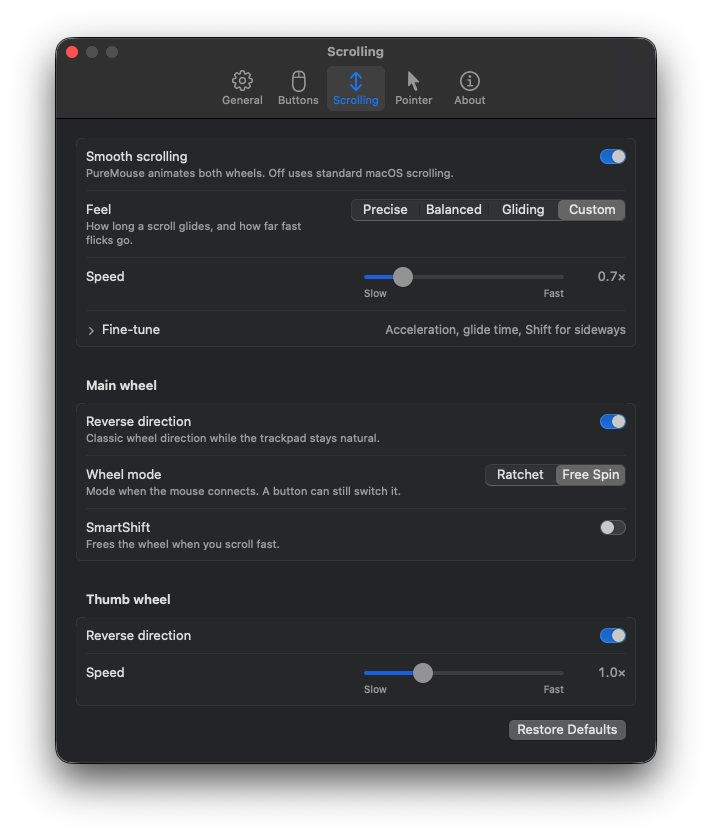
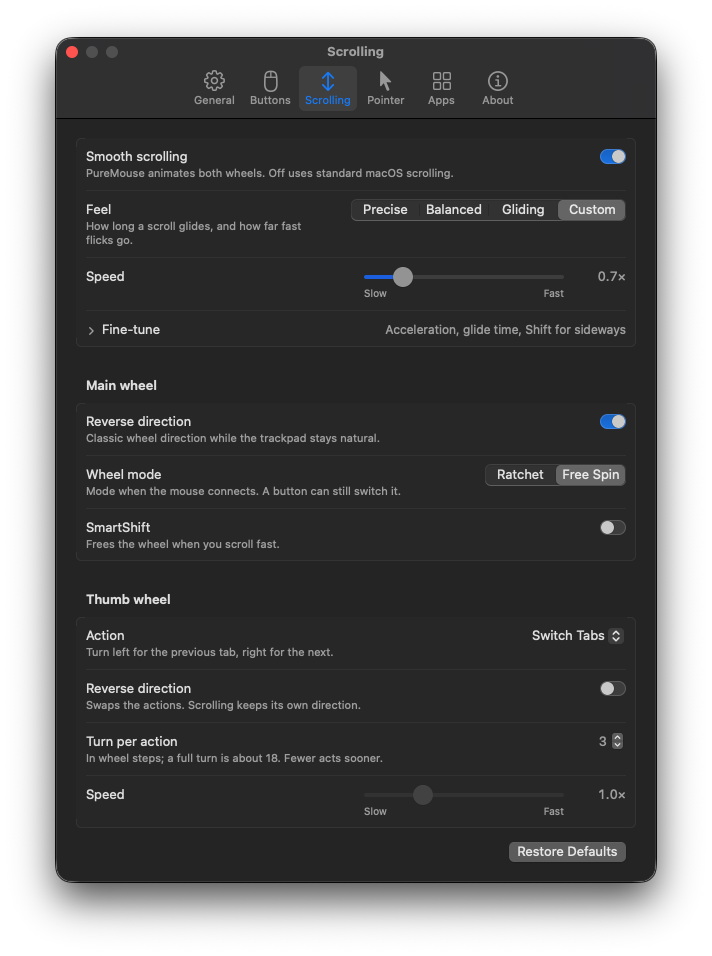
README: lead with the footprint, refresh screenshots, add 0.3.0 features and confident mouse support
Screenshots retaken for 0.3.0 (Apps pane and an app's own settings added; Scrolling shows a
thumb-wheel action with its direction). Reviewed by Sonnet, Gemini and Codex Sol.

diff --git a/README.md b/README.md
@@ -8,8 +8,8 @@
 <h1 align="center">PureMouse</h1>
 
 <p align="center">
-  Button mapping, gestures, DPI and smooth scrolling for Logitech mice on macOS.<br>
-  No account, no telemetry and no dependencies; the network is used only when you press Check for Updates.
+  A lightweight, native alternative to Logi Options+ for Logitech MX mice on macOS.<br>
+  Buttons, gestures, smooth scrolling, DPI and per-app settings, in under 20 MB of memory.
 </p>
 
 <p align="center">
@@ -27,98 +27,143 @@
   </picture>
 </p>
 
+PureMouse talks to the mouse directly over Logitech's HID++ protocol: no account, no cloud sync and
+no updater in the background. It is written in Swift with no third-party dependencies, and when
+the mouse is idle, so is PureMouse.
+
+## Lightweight by design
+
+| | PureMouse 0.3.0, as measured |
+|---|---|
+| Download | 5.6 MB zip, 8.4 MB installed; universal (Apple silicon and Intel) |
+| Memory | 4-6 MB for the background process, 14 MB for the menu bar app |
+| Idle CPU | Zero in normal use: no polling, no timers, no wake-ups* |
+| Processes | Two: the background process and an optional menu bar app |
+| Network | None, unless you press **Check for Updates** |
+| Privacy | No account, no telemetry, nothing stored on the mouse |
+
+The background process uses only system frameworks and no UI toolkit. The menu bar app builds its
+Settings window on demand and hands the memory back when you close it. Smooth scrolling runs in
+step with the display, and only while the wheel is moving.
+
+<sub>* Two exceptions, both short-lived: while a permission is still to be granted, PureMouse checks
+for it with growing gaps for up to ten minutes; and a Bluetooth mouse that does not answer when it
+connects is retried once a minute until it does.</sub>
+
 ## Features
 
-- **Buttons:** Mission Control, App Exposé, Show Desktop, Launchpad, Spaces, back and forward,
-  volume, brightness, tabs, zoom, any keyboard shortcut or a shell command.
-- **Gestures:** hold the thumb button and move the mouse for four more actions.
-- **Thumb wheel:** scroll sideways, or zoom, change the volume, switch tabs or Spaces, or run any
-  two actions.
-- **Per app:** buttons, thumb wheel and smooth scrolling can differ in each app, set in Settings ›
-  Apps with suggestions for common apps.
-- **Smooth scrolling:** pixel-precise and accelerated on both wheels, in step with the display.
-- **Hardware:** DPI with presets, wheel direction, ratchet or free-spin, and SmartShift.
-- **Universal Control:** while the pointer is on another Mac, the wheels and buttons work there
-  natively.
-- **Battery:** shown in the menu, with a notification at 20% and 5%.
-- **Reliable:** settings come back after every reconnect and wake. Quitting returns the mouse to
-  normal, and nothing is stored on it.
-- **Light:** about 4 MB of memory for the background process and 15 MB for the menu bar app
-  (idle, Settings closed), with no CPU use while the mouse is idle.
+**Buttons and gestures**
+- Map any button to Mission Control, App Exposé, Show Desktop, Launchpad, Spaces, back and
+  forward, volume, brightness, tabs, zoom, a keyboard shortcut or a shell command.
+- Hold the gesture button and move the mouse for four more actions.
+- **Select by Pressing** finds a button by pressing it.
+
+**Scrolling**
+- Smooth, accelerated scrolling on both wheels, with Precise, Balanced and Gliding presets or
+  your own feel.
+- The thumb wheel scrolls sideways, or switches tabs, changes the volume, zooms, moves between
+  Spaces or runs two actions of your choice, in whichever direction you prefer.
+- Wheel direction, ratchet or free spin, and SmartShift.
+
+**Per app**
+- Give an app its own buttons, thumb wheel and scrolling speed. Buttons follow the frontmost app;
+  scrolling and the thumb wheel follow the app under the pointer.
+- Suggestions for common apps: tab switching in browsers, volume in Zoom and Teams, zoom in Word,
+  PowerPoint and Preview.
+
+**Everything else**
+- DPI with presets you can cycle from a button or the menu.
+- Battery level in the menu, with a notification at 20% and 5%.
+- **Universal Control:** when the pointer moves to another Mac, the wheels and buttons carry on
+  working there.
+- **Check for Updates** in Settings › About, only when you ask.
+- Settings return after every reconnect and wake. Quitting hands the mouse straight back to
+  macOS, and nothing is written to the mouse, so it behaves normally on any other computer.
+
+## Settings
+
+The menu bar shows the mouse and its battery, and switches smooth scrolling, pointer speed and
+pause. **Settings…** covers everything else, and changes apply as you make them.
+
+<p align="center">
+  <picture>
+    <source media="(prefers-color-scheme: dark)" srcset="docs/images/settings-buttons-dark.png">
+    <img src="docs/images/settings-buttons-light.png" width="400" align="top" alt="Buttons settings: an action for each button and gesture">
+  </picture>
+  <picture>
+    <source media="(prefers-color-scheme: dark)" srcset="docs/images/settings-app-dark.png">
+    <img src="docs/images/settings-app-light.png" width="400" align="top" alt="Google Chrome's own settings: Command-T on the top button and the thumb wheel switching tabs">
+  </picture>
+</p>
+
+<details>
+<summary>More settings: scrolling, general, apps and pointer</summary>
+<p align="center">
+  <picture>
+    <source media="(prefers-color-scheme: dark)" srcset="docs/images/settings-scrolling-dark.png">
+    <img src="docs/images/settings-scrolling-light.png" width="400" align="top" alt="Scrolling settings: smooth scrolling feel and speed, main wheel direction and mode, thumb wheel switching tabs with its direction">
+  </picture>
+  <picture>
+    <source media="(prefers-color-scheme: dark)" srcset="docs/images/settings-general-dark.png">
+    <img src="docs/images/settings-general-light.png" width="400" align="top" alt="General settings: login, menu bar icon, low battery notification, Universal Control, permissions and files">
+  </picture>
+  <picture>
+    <source media="(prefers-color-scheme: dark)" srcset="docs/images/settings-apps-dark.png">
+    <img src="docs/images/settings-apps-light.png" width="400" align="top" alt="Apps settings: Chrome, Teams, Word, Preview and Safari, each with its own thumb wheel and buttons">
+  </picture>
+  <picture>
+    <source media="(prefers-color-scheme: dark)" srcset="docs/images/settings-pointer-dark.png">
+    <img src="docs/images/settings-pointer-light.png" width="400" align="top" alt="Pointer settings: resolution and DPI presets">
+  </picture>
+</p>
+</details>
+
+Prefer a text file? Everything is also in `~/.config/puremouse/config.json`, which applies as soon
+as you save it; see [Configuration](docs/configuration.md).
 
 ## Supported mice
 
-Only the **MX Master 3S** has been tested by this project. Support follows the features a mouse
-reports, rather than a product-ID list; other models below are **untested**.
+PureMouse is developed and tested with the **MX Master 3S**. Rather than relying on a fixed list
+of models, it turns on each feature a mouse reports over HID++, so the rest of the MX family is
+covered too:
 
-| Mouse | Support |
+| Mouse | What PureMouse uses |
 |---|---|
-| MX Master 3S | Tested: buttons, gestures, DPI, both wheels and SmartShift |
-| MX Master 3 / 3 for Business | Expected to work, including older firmware's battery reporting |
-| MX Master 4 | Expected to work; play-only haptic actions available through JSON config |
-| MX Anywhere 3 / 3S | Partial: buttons, DPI, main-wheel smooth scrolling and SmartShift expected; no thumb wheel or dedicated gesture button |
-| MX Vertical / Lift | Partial: buttons, DPI and battery expected; native scrolling only, no SmartShift, thumb wheel or dedicated gesture button |
+| MX Master 3S | Buttons, gestures, DPI, both wheels, SmartShift and battery |
+| MX Master 3 / 3 for Business | The same, including older firmware's battery reporting |
+| MX Master 4 | The same, plus haptic feedback as an action |
+| MX Anywhere 3 / 3S | Buttons, DPI, smooth scrolling, SmartShift and battery |
+| MX Vertical / Lift | Buttons, DPI and battery |
 
-Bluetooth and Bolt/Unifying receivers are discovered automatically, where the mouse supports
-that connection. Owners of other mice can help by attaching
-[`puremouse probe` output](docs/troubleshooting.md#inspecting-a-mouse) to an issue.
+Bluetooth and Logi Bolt or Unifying receivers are picked up automatically. Using a different
+Logitech mouse? Attaching [`puremouse probe` output](docs/troubleshooting.md#inspecting-a-mouse)
+to an issue is the quickest way to get it supported.
 
 ## Install
 
-Requires macOS 14 or later, on Apple silicon or Intel.
+Requires macOS 14 or later.
 
 1. Download `PureMouse-<version>.zip` from the
    [latest release](https://github.com/mblauberg/PureMouse/releases/latest), unzip it and move
    `PureMouse.app` to Applications.
-2. PureMouse is not notarised. Clear the quarantine flag **before** opening it (or see
-   [Opening a blocked app](docs/troubleshooting.md#opening-a-blocked-app)):
+2. PureMouse is signed but not notarised, so macOS blocks its first launch. Clear the quarantine
+   flag **before** opening it (or see [Opening a blocked app](docs/troubleshooting.md#opening-a-blocked-app)):
 
    ```sh
    xattr -dr com.apple.quarantine /Applications/PureMouse.app
    ```
 
-3. Quit Logi Options+ if it is running: both apps try to control the mouse.
-4. Open PureMouse. It starts at login from now on and opens Settings.
+3. Quit Logi Options+ if it is installed: only one app can control the mouse at a time.
+4. Open PureMouse. It opens Settings and starts at login from then on.
 5. In System Settings › Privacy & Security, allow **Accessibility** (for scrolling, shortcuts and
-   swipes) and **Input Monitoring** (for Bluetooth). PureMouse picks up each grant by itself.
+   swipes) and **Input Monitoring** (for Bluetooth). PureMouse picks up each grant by itself, and
+   Settings › General shows both.
 
-To update, quit PureMouse, replace the app and open it again.
+**Updating:** download the new version, replace the app and open it. Your settings and
+permissions carry over.
 
-## Settings
-
-The menu bar shows the mouse and its battery, and switches smooth scrolling, pointer speed presets
-and pause. **Settings…** covers the rest; changes apply as you make them.
-
-<p align="center">
-  <picture>
-    <source media="(prefers-color-scheme: dark)" srcset="docs/images/settings-buttons-dark.png">
-    <img src="docs/images/settings-buttons-light.png" alt="Buttons settings: an action for each button and gesture">
-  </picture>
-</p>
-
-<details>
-<summary>Scrolling, pointer and general settings</summary>
-<p align="center">
-  <picture>
-    <source media="(prefers-color-scheme: dark)" srcset="docs/images/settings-scrolling-dark.png">
-    <img src="docs/images/settings-scrolling-light.png" alt="Scrolling settings: smooth scrolling feel and speed, wheel direction and mode">
-  </picture>
-  <picture>
-    <source media="(prefers-color-scheme: dark)" srcset="docs/images/settings-pointer-dark.png">
-    <img src="docs/images/settings-pointer-light.png" alt="Pointer settings: resolution and DPI presets">
-  </picture>
-  <picture>
-    <source media="(prefers-color-scheme: dark)" srcset="docs/images/settings-general-dark.png">
-    <img src="docs/images/settings-general-light.png" alt="General settings: login, menu bar icon, permissions and files">
-  </picture>
-</p>
-</details>
-
-**Select by Pressing** finds a button by pressing it. Everything is also in
-`~/.config/puremouse/config.json`, which applies on save; see [Configuration](docs/configuration.md).
-
-**Quit PureMouse** stops it until the next login. To remove it, run this, then move the app to the
-Bin (your config is kept):
+**Removing:** run the command below, then move the app to the Bin. Your config stays in
+`~/.config/puremouse`.
 
 ```sh
 /Applications/PureMouse.app/Contents/MacOS/puremouse unregister
@@ -131,9 +176,11 @@ Bin (your config is kept):
 - [How it works](docs/how-it-works.md): the two processes, scrolling, source layout
 - [Development](docs/development.md): building, testing, signing and releases
 
+Bug reports and ideas are welcome in [Issues](https://github.com/mblauberg/PureMouse/issues).
+
 ## Licence
 
 MIT. See [`LICENSE`](LICENSE).
 
 PureMouse is an independent project, not affiliated with or endorsed by Logitech. Logitech, Logi,
-Logi Options+ and MX Master are trademarks of Logitech.
+Logi Options+, Logi Bolt, Unifying and MX Master are trademarks of Logitech.

diff --git a/AGENTS.md b/AGENTS.md
@@ -78,7 +78,9 @@ Read `README.md` first for what PureMouse does, then `docs/how-it-works.md` for 
   enable flags or configuration (persistence is unknown). Cache haptic absence per session.
   Enhanced SmartShift may skip malformed/feature-error replies only; timeouts and transport
   failures must reach configure's retry handling. Feature summaries use already resolved
-  indices after a successful apply, never extra adoption queries. Other mice remain labelled untested.
+  indices after a successful apply, never extra adoption queries. The MX Master 3S is the
+  development mouse; the README lists the others by the features they report, and the logs still
+  call Enhanced-only mice untested.
 - On SIGTERM/SIGINT, `Session.restore()` returns the mouse to native behaviour (wheels first). Each
   of its requests times out after `Session.restoreTimeout` (400 ms), and quitting waits long enough
   for every one of them to (`Daemon.shutdownDeadline`, 2-5 s), counting the restores of a pause

diff --git a/docs/configuration.md b/docs/configuration.md
@@ -167,8 +167,8 @@ which most apps share; use `{"keys": ...}` for an app that differs.
 `cycleDPI` switches to the next of `dpiPresets` above the current resolution, wrapping to the
 lowest. The choice survives reconnects until a config change alters `dpi` or `dpiPresets`.
 
-**Haptics (MX Master 4, untested):** configure an action in JSON, for example
-`"thumbPanel": {"haptic": "sharpStateChange"}`. It plays only if the mouse reports the haptic
+**Haptics (MX Master 4):** choose an effect under Haptic Feedback in a button's action picker, or
+set one in JSON, for example `"thumbPanel": {"haptic": "sharpStateChange"}`. It plays only if the mouse reports the haptic
 feature and supports that waveform; otherwise it is ignored with a log message once per session.
 An absent haptic feature is cached for the session, so repeated presses do not query the mouse again.
 It does not change strength, enable haptics or write any haptic configuration. If haptics are

diff --git a/docs/troubleshooting.md b/docs/troubleshooting.md
@@ -72,8 +72,8 @@ clear the flag afterwards.
 ## Inspecting a mouse
 
 `puremouse probe` lists every HID++ device with its features and current settings. It only reads, so
-it is safe to run at any time. Please attach its output to an issue if a mouse does not work. For an
-untested mouse, include the model, connection type (Bluetooth, Bolt or Unifying), and the log's
+it is safe to run at any time. Please attach its output to an issue if a mouse does not work. For a mouse
+other than the MX Master 3S, include the model, connection type (Bluetooth, Bolt or Unifying), and the log's
 adoption line, which includes the mouse's product ID, and its `configured; features(PureMouse)=`
 line, which lists the features PureMouse resolved once the settings were applied. The probe includes
 the complete feature table, SmartShift Enhanced state, legacy battery state and haptic capabilities.
